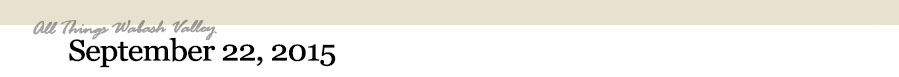
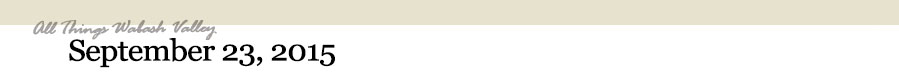
Fixed Archive Errors
Xavier Saunders

Changed region(s): [[0.2492, 0.5974, 0.3737, 0.8571]]

diff --git a/GitHubBuild/archive.html b/GitHubBuild/archive.html
@@ -77,7 +77,7 @@ $(window).load(function(){
 				
 				<div class="clear"></div>
 				<script>
-				   var prevMV = "090915"
+				   var prevMV = "092315"
 				  function MonthViewer (n){
 				  if(prevMV != 0){
 				    prevMV = document.getElementsByClassName(prevMV);
@@ -1224,7 +1224,7 @@ $(window).load(function(){
 				</tr>
 				
 				
-				<tr class="090915" style="display:none;">
+				<tr class="091615" style="display:none;">
                 <td style="text-align:left;padding:10px;"> 
 				<img src="images/Archive/WV.091615/Headline091615.jpg"/>
               </td>
